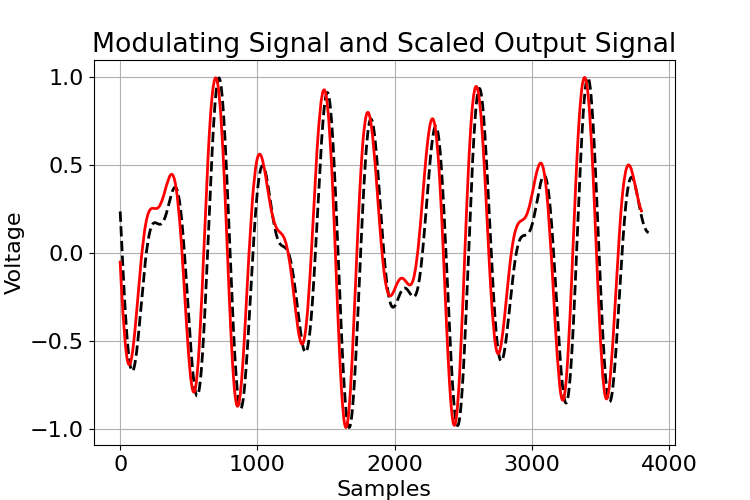
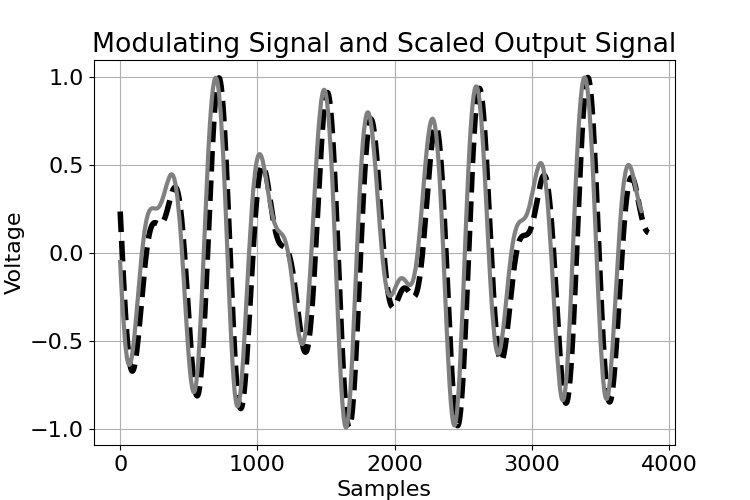
make figures grayscale

Changed region(s): [[0.1533, 0.15, 0.8587, 0.87]]

diff --git a/demodulator_nfm/demodulator_testbench.py b/demodulator_nfm/demodulator_testbench.py
@@ -23,15 +23,15 @@ SAMPLING_FREQUENCY = OVERSAMPLING_RATIO * RECEIVER_SAMPLING_FREQUENCY  # Hz - AD
 
 # Below are several sets of parameters used in the experiments:
 
-# # ------- set #1 --------
-FM1_CARRIER_FREQ = 108.9e3
-FM1_AMPLITURE = 1
-FM1_FREQ_SENSITIVITY = 1000
-FM1_MOD_FREQ_LIST = [370, 962]
-FM1_MOD_AMP_LIST =  [0.5,  0.5]
-DISCRIMINATOR_DELAY_RATIO = 2
+# # ------- set #1 (Fig.6 Left) --------
+# FM1_CARRIER_FREQ = 108.9e3
+# FM1_AMPLITURE = 1
+# FM1_FREQ_SENSITIVITY = 1000
+# FM1_MOD_FREQ_LIST = [370, 962]
+# FM1_MOD_AMP_LIST =  [0.5,  0.5]
+# DISCRIMINATOR_DELAY_RATIO = 2
 
-# # ------- set #2 --------
+# # ------- set #2 (Fig.7 Left) --------
 # FM1_CARRIER_FREQ = 103.2e3
 # FM1_AMPLITURE = 1
 # FM1_FREQ_SENSITIVITY = 1000
@@ -39,15 +39,15 @@ DISCRIMINATOR_DELAY_RATIO = 2
 # FM1_MOD_AMP_LIST =  [0.6,  0.4]
 # DISCRIMINATOR_DELAY_RATIO = 1
 
-# ------- set #3 --------
-# FM1_CARRIER_FREQ = 154.3e3
-# FM1_AMPLITURE = 1
-# FM1_FREQ_SENSITIVITY = 1000
-# FM1_MOD_FREQ_LIST = [1040, 1490]
-# FM1_MOD_AMP_LIST =  [0.6,  0.4]
-# DISCRIMINATOR_DELAY_RATIO = 14
+# ------- set #3 (Fig.7 Right) --------
+FM1_CARRIER_FREQ = 154.3e3
+FM1_AMPLITURE = 1
+FM1_FREQ_SENSITIVITY = 1000
+FM1_MOD_FREQ_LIST = [1040, 1490]
+FM1_MOD_AMP_LIST =  [0.6,  0.4]
+DISCRIMINATOR_DELAY_RATIO = 14
 
-# # ------- set #4 --------
+# # ------- set #4 (Fig.6 Right) --------
 # FM1_CARRIER_FREQ = 104.0e3
 # FM1_AMPLITURE = 1
 # FM1_FREQ_SENSITIVITY = 1000
@@ -195,8 +195,8 @@ plt.savefig("results/" + "raw_" + figure_name)
 
 
 plt.figure(figsize=(7.5, 5))
-plt.plot(modulation_signal[CUT_SAMPLES_CNT:], "--", color="black")
-plt.plot(scaled_output[discriminator_delay:], color="red")
+plt.plot(modulation_signal[CUT_SAMPLES_CNT:], "--", color="black", linewidth = 4)
+plt.plot(scaled_output[discriminator_delay:], color="gray", linewidth = 3)
 plt.title("Modulating Signal and Scaled Output Signal")
 plt.xlabel("Samples")
 plt.ylabel("Voltage")
